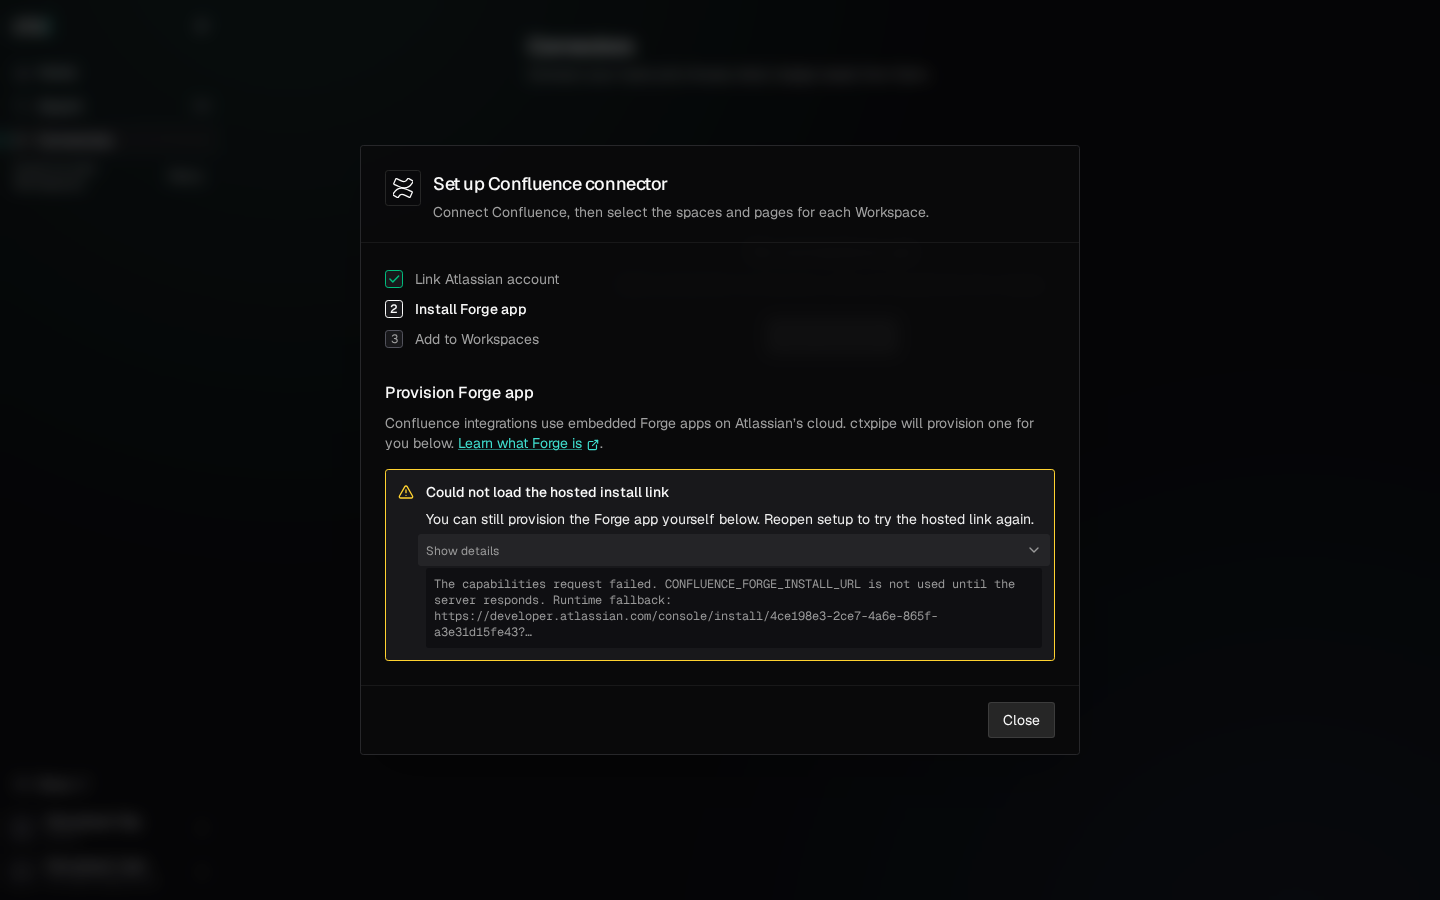
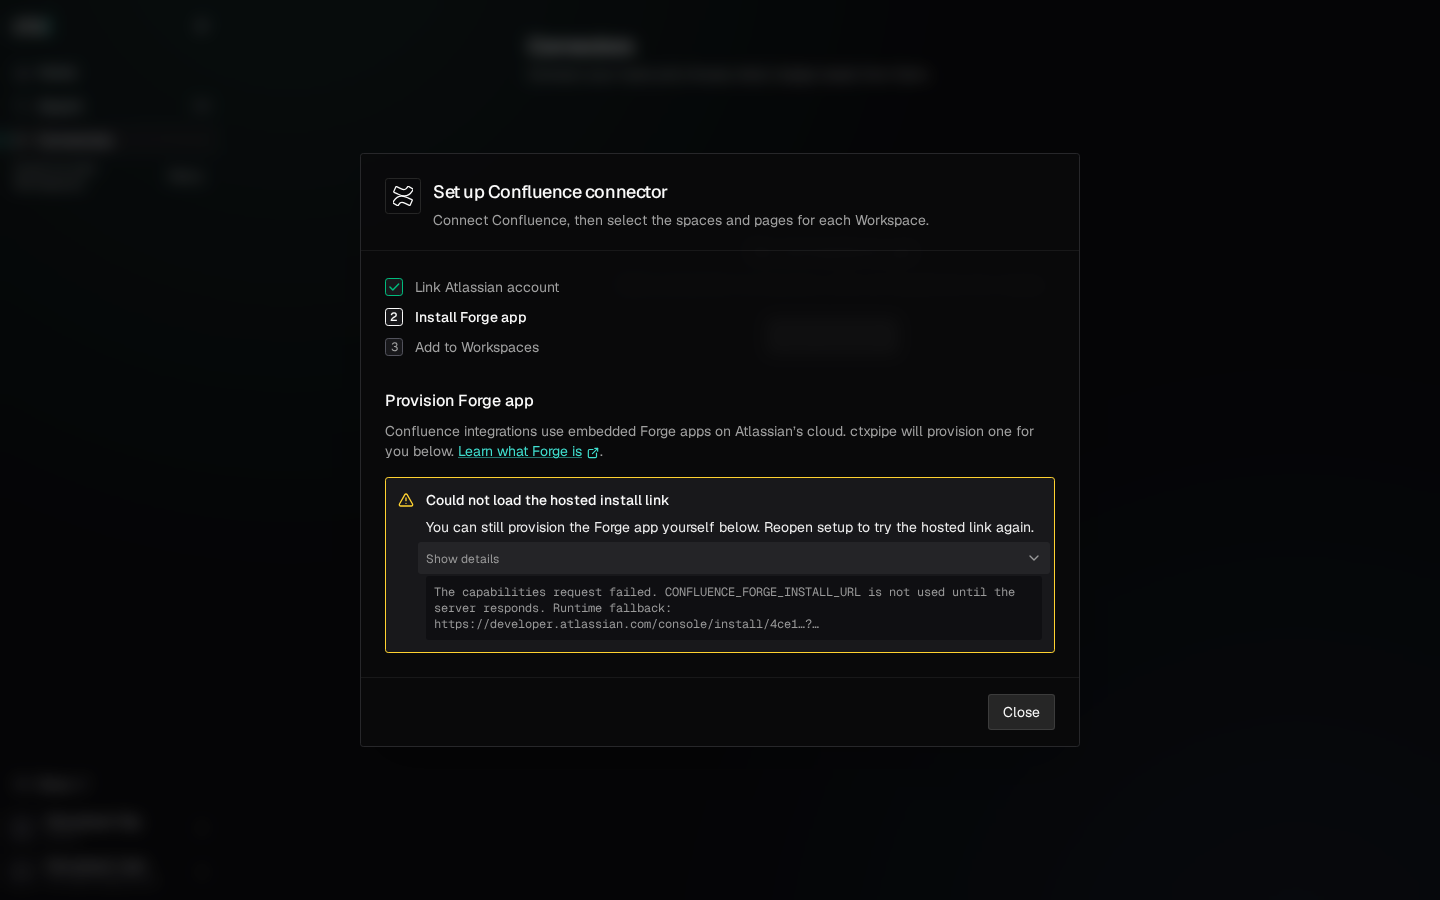
Hide secret-like values in machine text on the screen (CTX-1270)
The page error and the Confluence capabilities details use one helper,
`hideSecrets`: the query of a URL becomes "?…", and a long token keeps
only its first 4 characters (R5).

diff --git a/apps/ui/src/features/connectors/components/confluence-setup/steps/InstallForgeStep.tsx b/apps/ui/src/features/connectors/components/confluence-setup/steps/InstallForgeStep.tsx
@@ -12,6 +12,7 @@ import { InlineAlert } from "@/components/ui/InlineAlert"
 import { Spinner } from "@/components/ui/spinner"
 import { TextField } from "@/components/ui/TextField"
 import { pollWhileOk } from "@/lib/api-result"
+import { hideSecrets } from "@/lib/hide-secrets"
 import { useConfluenceForgeRuntime } from "@/providers/ConfluenceForgeRuntimeContext"
 
 import {
@@ -33,12 +34,6 @@ type InstallForgeStepProps = {
 const PROVISION_POLL_MS = 2000
 const PROVISION_TIMEOUT_MS = 15 * 60 * 1000
 const PROVISION_SUCCESS_MS = 550
-
-/** A URL without its query: a signed install link never shows in full. */
-function withoutQuery(url: string): string {
-  const cut = url.search(/[?#]/)
-  return cut === -1 ? url : `${url.slice(0, cut)}?…`
-}
 
 function pickHttps(candidate: string | null | undefined): string | null {
   const s = candidate?.trim()
@@ -342,7 +337,7 @@ export function InstallForgeStep({
                 <p className="max-h-24 overflow-y-auto rounded-md bg-zinc-950/60 p-2 font-mono text-xs wrap-anywhere text-muted-foreground">
                   The capabilities request failed. CONFLUENCE_FORGE_INSTALL_URL
                   is not used until the server responds. Runtime fallback:{" "}
-                  {withoutQuery(
+                  {hideSecrets(
                     pickHttps(forgeRuntime.installUrlFallback) ??
                       pickHttps(CONFLUENCE_FORGE_INSTALL_URL) ??
                       "none",

diff --git a/apps/ui/src/features/org/OrgOutletError.tsx b/apps/ui/src/features/org/OrgOutletError.tsx
@@ -1,6 +1,7 @@
 import { Button } from "@/components/ui/Button"
 import { InlineAlert } from "@/components/ui/InlineAlert"
 import { ApiError } from "@/lib/api-result"
+import { hideSecrets } from "@/lib/hide-secrets"
 
 /**
  * What went wrong, in one short sentence that does not repeat the title. The
@@ -22,7 +23,8 @@ function errorSummary(error: unknown): string {
 
 /**
  * The raw reason (a server reason or an error message), or null. It can be
- * long machine text, so it shows in a small capped block.
+ * long machine text, so it shows in a small capped block, without the
+ * secret-like values (R5).
  */
 function rawReason(error: unknown): string | null {
   const reason =
@@ -31,7 +33,7 @@ function rawReason(error: unknown): string | null {
       : error instanceof Error
         ? error.message
         : null
-  return reason?.trim() ? reason : null
+  return reason?.trim() ? hideSecrets(reason) : null
 }
 
 export function OrgOutletError(props: {

diff --git a/apps/ui/src/lib/hide-secrets.test.ts b/apps/ui/src/lib/hide-secrets.test.ts
@@ -1,0 +1,24 @@
+import { describe, expect, it } from "vitest"
+
+import { hideSecrets } from "./hide-secrets"
+
+describe("hideSecrets", () => {
+  it("drops the query of a signed URL", () => {
+    expect(
+      hideSecrets(
+        "fallback: https://developer.atlassian.com/console/install/abc?signature=AYABeHVDAf5aXClr&product=confluence.",
+      ),
+    ).toBe("fallback: https://developer.atlassian.com/console/install/abc?…")
+  })
+
+  it("keeps the start of a long token only", () => {
+    expect(
+      hideSecrets("token ghp_0123456789abcdefghijklmnopqrstuvwxyz refused"),
+    ).toBe("token ghp_… refused")
+  })
+
+  it("keeps plain text and a URL without a query", () => {
+    const text = "The operation timed out at https://example.com/api/v1."
+    expect(hideSecrets(text)).toBe(text)
+  })
+})

diff --git a/apps/ui/src/lib/hide-secrets.ts b/apps/ui/src/lib/hide-secrets.ts
@@ -1,0 +1,10 @@
+/**
+ * Machine text for the screen, without secret-like values: the query of a
+ * URL (a signed link carries its signature there) becomes "?…", and a long
+ * run of token characters keeps only its first 4 characters.
+ */
+export function hideSecrets(text: string): string {
+  return text
+    .replace(/(https?:\/\/[^\s?#]+)[?#]\S*/g, "$1?…")
+    .replace(/[A-Za-z0-9_-]{32,}/g, (token) => `${token.slice(0, 4)}…`)
+}
